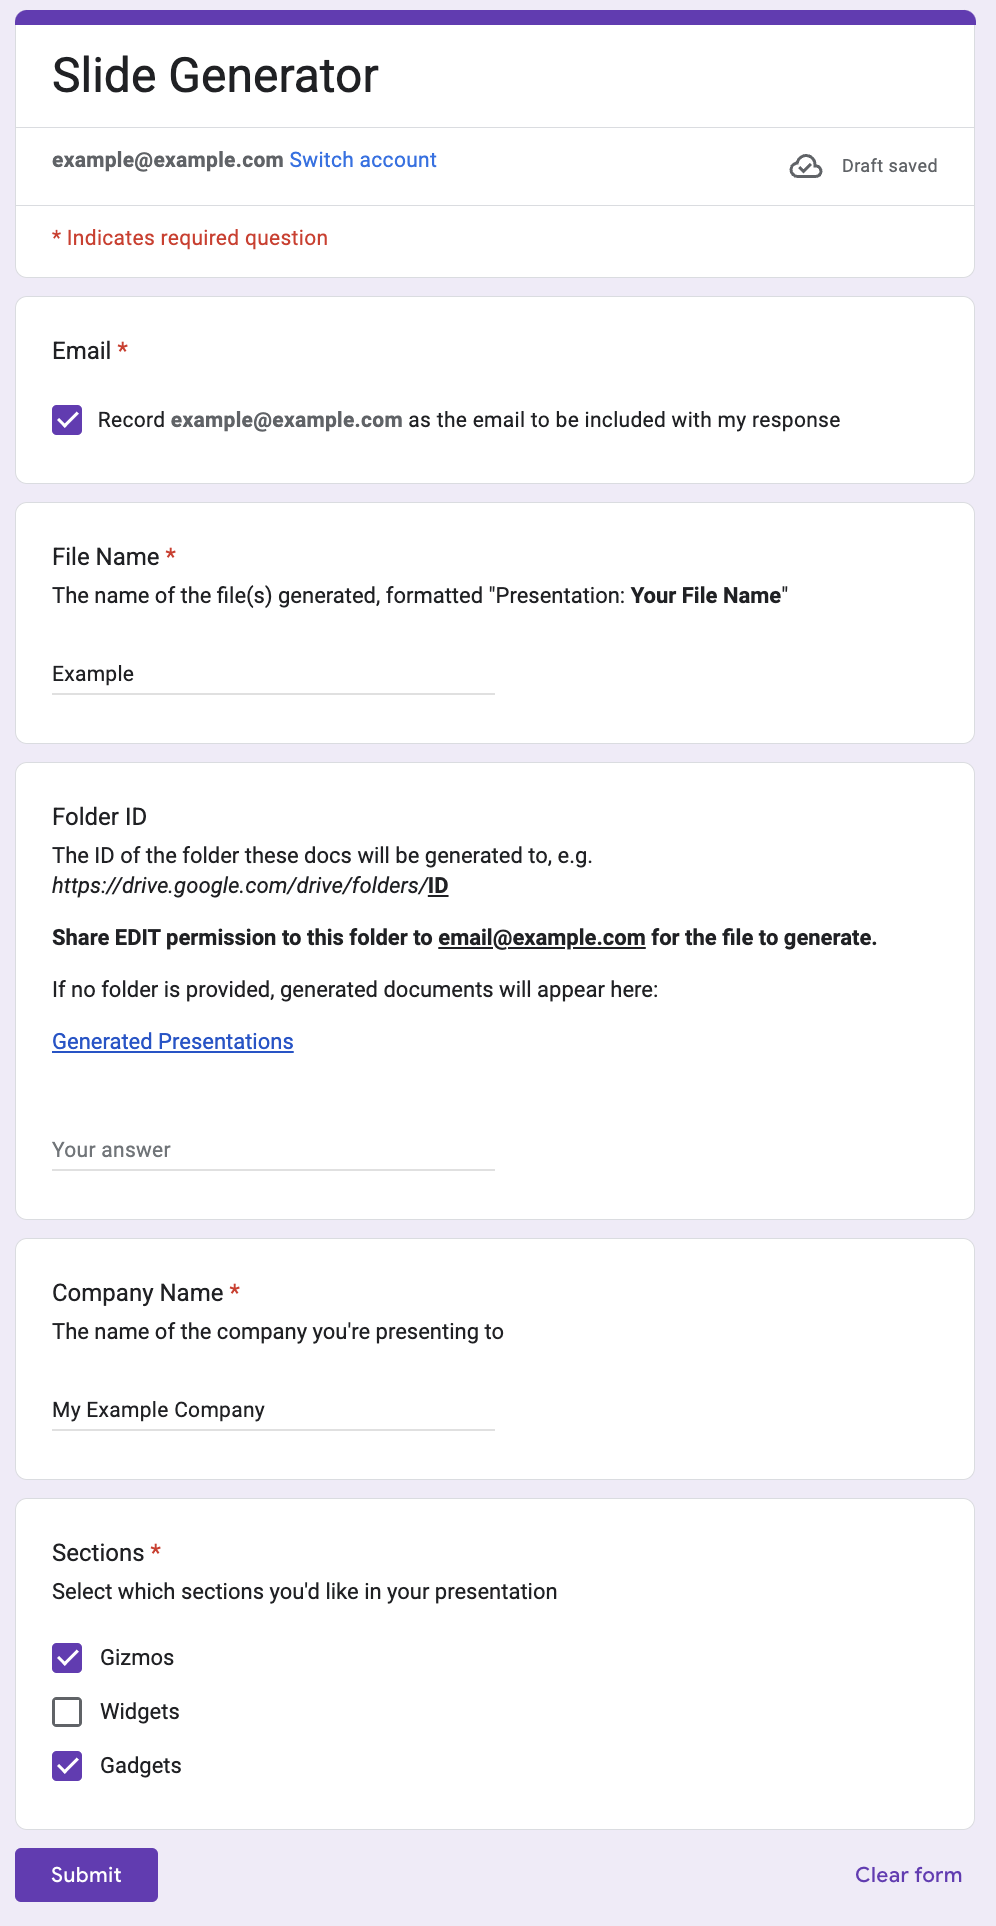
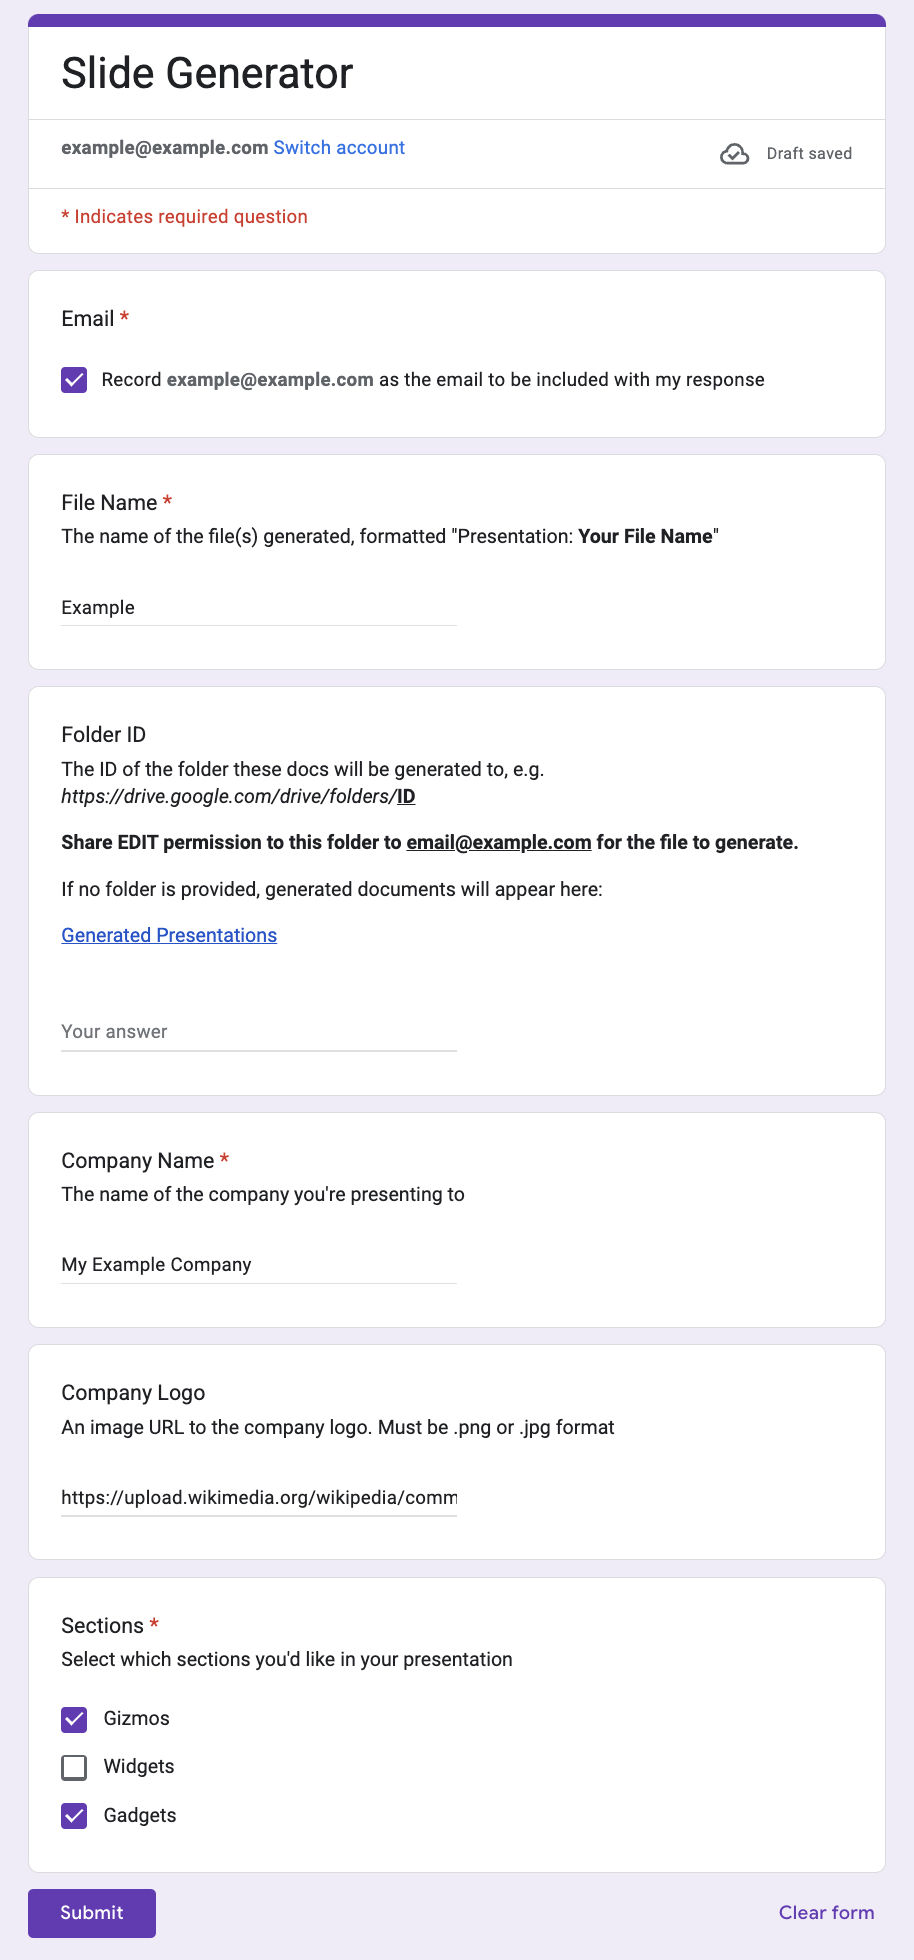
Updated Google Generator to include dynamic images

diff --git a/content/posts/google-slides-presentation-generator.md b/content/posts/google-slides-presentation-generator.md
@@ -68,6 +68,27 @@ If you expect to use the same footer on every page, make it a group so that you 
 
 You can repeat this process for any other variables you’d like to dynamically add - think content that your presenter should know but will be different per presentation (like date presented, presenters, start/end dates, unique URLs). Save these variable names - you’ll want a way for your team to reference what values are available to them when building the slides.
 
+## Defining Dynamic Images
+
+You may have some images that are updated in each presentation - for example: a company logo, an implementation diagram, or a pricing/packaging chart. We’ll use the same variable-oriented approach to dynamically replace images inside a frame whose dimensions you’ve specified on your template slide.
+
+On the same title slide, let’s add a new placeholder image that we’ll dynamically replace with a company logo.
+
+In the top toolbar, select *Insert* → *Image* → *By URL* and place in an image whose dimensions fit the size requirements you’d like for your slide. Feel free to use a default image here, but if you don’t have a default I like using a placeholder image generator, like [placehold.co](http://placehold.co), to get something well-formatted. My example uses the following 600x400px image and displays the variable we’re going to use to replace it, *CompanyLogo*.
+
+`https://placehold.co/600x400/png?font=roboto&text=600x400\n{{CompanyLogo}}`
+
+![A screenshot of the toolbar in Google Slides to add the custom image by URL](../images/google-slides-presentation-generator/add-image-url.png)  
+*Adding an Image By URL*
+
+Once you have your image in place, right click on the image and select *Format Options* to open the Format Options Toolbar. We are going to tag this image using the alt text title: select *Alt Text* → *Advanced Options* and enter a unique image variable for this logo (in this case, `CompanyLogo`).
+
+![A screenshot of the toolbar in Google Slides when right-clicking an image to go to format options](../images/google-slides-presentation-generator/format-image-select.png)
+![A screenshot of adding the alt title "CompanyLogo" to the image in Google Slides](../images/google-slides-presentation-generator/format-image-title.png) 
+*Adding the Alt Title Variable*
+
+> **Note:** When we replace this image our alt text will go away. For best accessibility practices, it’s recommended to capture descriptive image alt text in your form and update the image accordingly.
+
 ## Defining Dynamic Sections
 
 Let’s create some sections. While Google Slides doesn’t natively support sections like PowerPoint, we can use variables to define what is a section so that when generating content we know what to show or hide.
@@ -136,8 +157,37 @@ Next: add the following question, being sure to change the values for your email
 | ----- | ----- | ----- | ----- |
 | Folder ID | Short Answer | The ID of the folder these docs will be generated to, e.g. *https://drive.google.com/drive/folders/***ID  Share EDIT permission to this folder to [add your email] for the file to generate.**  If no folder is provided, generated documents will appear here:  [Add a Link to your Folder]  | No |
 
+To ensure that users don’t accidentally submit a malformatted folder link, select the three dots next to “Required”, enable “Response Validation”, and add in the following validation:
+
+* Regular Expression  
+* Contains  
+* `^[a-zA-Z0-9_-]{28,33}$`  
+* “Must be a valid Google Drive Folder ID.”
+
 ![A screenshot of the folder ID being collected within the form editor](../images/google-slides-presentation-generator/form-folder-id.png) 
 *The Folder ID Variable*
+
+## Getting the Images
+
+Images operate similarly to variables, but we’ll want to add some validation like the folder submission to ensure that people don’t accidentally submit an invalid image URL.
+
+Add the following question into your form:
+
+| Name | Type | Description | Required |
+| ----- | ----- | ----- | ----- |
+| Company Logo | Short Answer | An image URL to the company logo. Must be .png or .jpg format  | No |
+
+Select the three dots next to “Required”, enable “Response Validation”, and add in the following validation:
+
+* Regular Expression  
+* Contains  
+* `^https?:\/\/.*\.(?:png|jpe?g)$`  
+*  “Must be a valid image url (png, jpg, jpeg)”
+
+![A screenshot of the company logo URL being collected within the form editor](../images/google-slides-presentation-generator/form-folder-id.png) 
+*The Company Logo Image URL*
+
+This approach can be repeated for as many images as you need.
 
 ## Getting the Sections to Generate
 
@@ -173,14 +223,14 @@ Once created, you should be redirected to the Google Sheet. Add two extra column
 ![A screenshot of the initial linked sheet when created](../images/google-slides-presentation-generator/sheet-initial.png)  
 *The Initial Spreadsheet*
 
-To make it easier to update in the future, we’re going to use Sheet Tabs (i.e. “Sheets”) to store configuration information like variables and sections. This is what our script will look at to know how to read the form responses and populate default values.
+To make it easier to update in the future, we’re going to use Sheet Tabs (i.e. “Sheets”) to store configuration information like variables, images, and sections. This is what our script will look at to know how to read the form responses and populate default values.
 
-At the bottom of the page click the plus button next to the tab that says “Form Responses 1” and add the following two sheets: **Variables** and **Sections**. Your sheet list should look like this:
+At the bottom of the page click the plus button next to the tab that says “Form Responses 1” and add the following three sheets: **Variables**, **Images**, and **Sections**. Your sheet list should look like this:
 
-![A screenshot of the Sheets (tabs) for Variables and Sections added to the linked spreadsheet](../images/google-slides-presentation-generator/sheet-sections.png)
+![A screenshot of the Sheets (tabs) for Variables, Images, and Sections added to the linked spreadsheet](../images/google-slides-presentation-generator/sheet-sections.png)
 *Adding the Sheets to the Spreadsheet*
 
-**Note: Case and spelling is important here - make sure that *Variables* and *Sections* are written exactly as they appear here.**
+> **Note**: Case and spelling is important here - make sure that *Variables* , *Images*, and *Sections* are written exactly as they appear in this document.
 
 ## The Variables Sheet
 
@@ -193,13 +243,13 @@ In the Variables sheet, add the following data:
 | TimeStamp |  | Timestamp | 0 |
 | PresenterEmail |  | Email Address | 1 |
 | FileName | My Presentation | File Name | 2 |
-| FolderId |  | Folder ID | 3 |
+| FolderId | **Insert your default folder ID here** | Folder ID | 3 |
 | CompanyName | Customer | Company Name | 4 |
-| Sections |  | Sections | 5 |
-| Status |  | Generation Status | 6 |
-| FileLinks |  | File Link(s) | 7 |
+| Sections |  | Sections | 6 |
+| Status |  | Generation Status | 7 |
+| FileLinks |  | File Link(s) | 8 |
 | TemplateTypes | Slides |  | -1 |
-| SlideTemplateId |  |  | -1 |
+| SlideTemplateId | **Insert your Slide Template ID here** |  | -1 |
 | DocumentTemplateId |  |  | -1 |
 | Year |  |  | -1 |
 
@@ -231,6 +281,35 @@ We’re going to need to point our generator to the right template. To do so, co
 If you created a default folder, you’ll want to do the same thing for your `FolderId` variable - the part of the url is bolded in this example:
 
 `https://drive.google.com/drive/folders/`**FolderId**
+
+## The Images Sheet
+
+The Images sheet holds information about what images we are replacing with image URLs in our form. It operates using the same principle as the Variables sheet.
+
+In the Images sheet, add the following data:
+
+| Variable | Default | Form Key | Form Index |
+| :---- | :---- | :---- | ----- |
+| CompanyLogo |  | Company Logo | 5 |
+
+Just like with the Variables sheet, use the following function in your Form Index column to ensure that your index matches the key.
+
+```
+=IFNA(MATCH(C2,'Form Responses 1'!$1:$1,0) - 1,-1)
+```
+
+If you want to add a new image, give it a unique image name and put that name in the Variable column. 
+
+* If you add a question to the form that populates this variable, put in the Form Key and the Form Index will auto-set for you.   
+* If you give the variable a default image URL, and this form value isn’t populated, the default is used instead.   
+* If you have a static image you’d like to make sure everyone has (let’s say if a marketing image or diagram is maintained in a separate CDN), add it with a default value and no Form Key and it’ll be applied automatically.
+
+For example, if I wanted to put a custom diagram for Gizmos into my slides I might:
+
+1. Add a new image input into my form called “Custom Gizmos Diagram URL”  
+2. Add a row with the variable “GizmosDiagram” and the Form Key “Custom Gizmos Diagram URL”
+
+Now, if I have an image with the alt title “GizmosDiagram” it’ll be replaced with the image URL submitted in the form.
 
 ## The Sections Sheet
 
@@ -283,7 +362,7 @@ Your tab list should look like this:
 
 ## Add the Trigger
 
-Once your scripts are imported we’ll want to add our trigger so that the generator runs every time a new Form response is submitted. To do so, head to the “Main” file and run the function `attachTrigger`. You’ll be prompted to authorize a series of permissions that let you clone the template to a folder, modify the cloned template, update the generator sheet, and send a success/failure email.
+Once your scripts are imported we’ll want to add our trigger so that the generator runs every time a new Form response is submitted. To do so, head to the “Main” file and run the function `attachTrigger`. You’ll be prompted to authorize a series of permissions that let you clone the template to a folder, modify the cloned template, update the generator sheet, and send a success/failure email. **Only run this trigger once.**
 
 ![A screenshot of the "attachTrigger" script being run from the "Main.gs" file within the Apps Script Editor](../images/google-slides-presentation-generator/script-run-trigger.png)  
 *Running the Trigger*
@@ -328,7 +407,7 @@ Have your presenters bookmark this presentation. That way if they need a new dec
 
 The generator is built to be extended to fit whatever use cases you and your organization requires. That being said, here are some things built-in that you can try:
 
-1. As mentioned before, add as many variables and sections as you want - as you update the Google Sheet, the generator will adapt automatically.  
+1. As mentioned before, add as many variables, images, and sections as you want - as you update the Google Sheet, the generator will adapt automatically. If you don’t want these features, don’t add them - the generator will know what to do based on the data it receives.  
 2. In `Main.gs`, you’ll notice there are some additional commented-out arguments for start and end date. If you’re presenting on a topic that has a beginning and end (like a POC), add those arguments to your form and use the existing utility function called `calculateDuration` to get a duration between those two dates in days.  
 3. Also in `Main` you’ll see that there’s another case commented out other than `Slides`. The generator is built using a parent `Template` class - meaning that you can create a generator for Google Docs, Google Sheets, Google Forms, etc. using the functions extended from that base class. As you add more classes, put them into the switch statement to be generated - and everything else will just work as expected.
 
